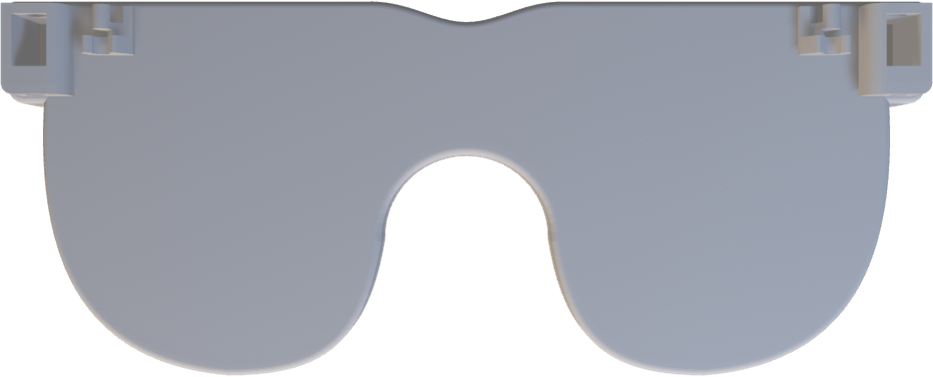
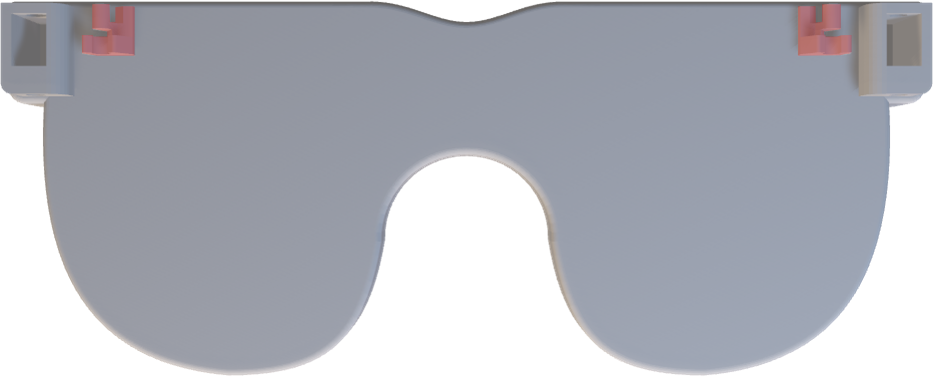
Update: Umsetzung + images-Folder

Changed region(s): [[0.8392, 0.0, 0.9325, 0.1459], [0.0622, 0.0, 0.1554, 0.1459]]

diff --git a/diplomarbeit/chapters/04_Umsetzung.tex b/diplomarbeit/chapters/04_Umsetzung.tex
@@ -545,7 +545,7 @@ Die nachfolgende Analyse schlüsselt die Code-Passagen und ihre technischen Funk
 Die Rahmenkonstruktion basiert auf einer in der zweidimensionalen Ebene definierten
 Grundform.
 
-\begin{figure}[htbp]
+\begin{figure}[H]
     \centering
     \includegraphics[width=0.5\textwidth]{media/images/Grundform-Skizze.png}
     \caption*{Grundform-Skizze}
@@ -562,7 +562,7 @@ Im rechten Bereich der Brille ist das Lademodul untergebracht. Unterhalb davon b
 
 Farbliche Kennzeichnung der Nicla Vision-Auflage (rot) und des Lademoduls (orange):
 
-\begin{figure}[htbp]
+\begin{figure}[H]
     \centering
     \includegraphics[width=0.45\textwidth]{media/images/Rahmen v2 - Nicla Vision-Stützen und Lademodul.png}
     \caption*{Rahmen v2: Innenraum}
@@ -572,7 +572,7 @@ Farbliche Kennzeichnung der Nicla Vision-Auflage (rot) und des Lademoduls (orang
 
 Um zu versichern, dass der Mikrocontroller fixiert ist, wird dieser von unten durch Halterungen abgestützt und von oben durch eine entsprechende Ausbuchtung in Position gehalten:
 
-\begin{figure}[htbp]
+\begin{figure}[H]
     \centering
     \includegraphics[width=0.25\textwidth]{media/images/Abdeckung v1 - Rückseite (links).png}
     \caption*{Abdeckung v1: Rückseite mit Nicla Vision-Ausbuchtung}
@@ -583,7 +583,7 @@ An den beiden Enden der Abdeckung, links und rechts, sind Vorsprünge mit Löche
 
 Die Position des Buttons wurde auf die Oberseite des Rahmens oberhalb des Mikrocontrollers gelegt, da diese Anordnung die Verkabelung erleichtert - im Gegensatz zu einer möglichen Platzierung am Bügelende hinter dem Ohr.
 
-\begin{figure}[htbp]
+\begin{figure}[H]
     \centering
     \includegraphics[width=0.5\textwidth]{media/images/Button-Öffnung.jpg}
     \caption*{Rahmen v2: Button-Öffnung}
@@ -615,7 +615,7 @@ Um ein komfortables Tragen der Brille im Nasenbereich zu ermöglichen, wurden di
     \item Verbesserung der Lademodul-Halterung (im ersten Test-Druck fielen die Maße noch zu schmal aus).
 \end{itemize}
 
-\begin{figure}[htbp]
+\begin{figure}[H]
     \centering
     \includegraphics[width=0.45\textwidth]{media/images/Abdeckungs-Stützen.png}
     \caption*{Rahmen v3: Abdeckungs-Stützen}
@@ -636,25 +636,25 @@ Die zuvor fehlenden Auflageflächen für den Knopf wurden nun unterhalb der Öff
 
 Im Vergleich zur Vorversion wurden die zuvor vorhandenen Öffnungen an den äußeren Enden links und rechts zur Verbindung der Abdeckung wieder geschlossen. Stattdessen kommt eine Haken-Einrastfunktion zum Einsatz, die eine sichere und ästhetische Verbindung zwischen Abdeckung und Rahmen gewährleisten soll.
 \newline
-\begin{figure}[htbp]
+\begin{figure}[H]
     \centering
     \includegraphics[width=0.2\textwidth]{media/images/Haken.png}
     \caption*{Haken v1: Angebracht an der Abdeckung}
     \label{fig:Haken v1}
 \end{figure}
 
-\begin{figure}[htbp]
+\begin{figure}[H]
     \centering
     \includegraphics[width=0.15\textwidth]{media/images/Haken-Gegenstück.png}
     \caption*{Haken-Gegenstück v1: Angebracht im Rahmen}
     \label{fig:Haken-Gegenstück v1}
 \end{figure}
 
-\textbf{Ergebnis:} Der 3D-Drucker konnte die sehr kleinen Details der Haken-Einrastfunktion nicht präzise umsetzen. Eine Vergrößerung des Hakens war jedoch nicht möglich, da diese Funktion in den Ecken des Rahmens untergebracht werden sollte, wo zugleich genügend Raum für die Kabelführung zur Verfügung stehen muss. Folglich war eine neue Lösung erforderlich.
+\textbf{Ergebnis:} Der 3D-Drucker konnte die sehr kleinen Details der Haken-Einrastfunktion nicht präzise umsetzen. Eine Vergrößerung war jedoch nicht möglich, da diese Funktion in den Ecken des Rahmens untergebracht werden sollte, wo zugleich genügend Raum für die Kabelführung zur Verfügung stehen muss. Folglich war eine neue Lösung erforderlich.
 
 \textbf{Scharnier-Optimierung:} Aufgrund unzureichender Funktionalität des zuvor verwendeten Scharniermechanismus wurde eine alternative Ausführung des Scharniers entwickelt:
 
-\begin{figure}[htbp]
+\begin{figure}[H]
     \centering
     \includegraphics[width=0.45\textwidth]{media/images/Rahmen v4 - Hinteransicht.png}
     \caption*{Rahmen v4: Hinteransicht}
@@ -669,7 +669,7 @@ Allgemein wurden zwar die Auflageflächen für den Knopf ergänzt, weiteren Prob
 
 Im Zuge des Neuentwurfs des Rahmen-Designs wurden mehrere zentrale Aspekte berücksichtigt, die in den vorherigen Versionen noch nicht ausreichend umgesetzt werden konnten. Ziel war es, eine ergonomische Form zu entwickeln, die sich an den Proportionen herkömmlicher Brillen orientiert und gleichzeitig für möglichst viele Gesichtsformen geeignet ist.
 
-\begin{figure}[htbp]
+\begin{figure}[H]
     \centering
     \includegraphics[width=0.5\textwidth]{media/images/Rahmen v5 - Vorderansicht.png}
     \caption*{Rahmen v5: Vorderansicht}
@@ -678,7 +678,7 @@ Im Zuge des Neuentwurfs des Rahmen-Designs wurden mehrere zentrale Aspekte berü
 
 Darüber hinaus sollte der bereits zuvor entwickelte Scharniermechanismus grundsätzlich beibehalten, jedoch größer dimensioniert werden, um den Einschränkungen durch die geringe Druckgenauigkeit des 3D-Drucks bei sehr kleinen Bauteilen entgegenzuwirken. Zusätzlich wurde vorgesehen, zwei Nasenbügel in das Modell zu integrieren, um die Auflage und den Tragekomfort zu verbessern.
 
-\begin{figure}[htbp]
+\begin{figure}[H]
     \centering
     \includegraphics[width=0.5\textwidth]{media/images/Rahmen v5 - Hinteransicht mit Nasenbügel und Scharniermechanismus.png}
     \caption*{Rahmen v5: Hinteransicht}
@@ -687,7 +687,7 @@ Darüber hinaus sollte der bereits zuvor entwickelte Scharniermechanismus grunds
 
 Ein weiterer Ansatz bestand darin, die bisherige Abdeckung zu überarbeiten und, ähnlich wie bei herkömmlichen Brillen, in zwei separate Bereiche für die Gläser aufzuteilen.
 
-\begin{figure}[htbp]
+\begin{figure}[H]
     \centering
     \includegraphics[width=0.4\textwidth]{media/images/Gläser-Abdeckung v1 - Vorderansicht.png}
     \caption*{Gläser-Abdeckung v1: Vorderansicht}
@@ -696,9 +696,9 @@ Ein weiterer Ansatz bestand darin, die bisherige Abdeckung zu überarbeiten und,
 
 Die Konstruktion des Rahmens basiert auf einer Skizze der Augenrand-Oberlinie. Diese wird nach oben extrudiert, wodurch eine dünne Grundfläche entsteht, aus der die eigentliche Brillenform herausgearbeitet wird.
 
-\begin{figure}[htbp]
+\begin{figure}[H]
     \centering
-    \includegraphics[width=0.5\textwidth]{media/images/Rahmen v5 - Arbeitsschritte der Konstruktion.png}
+    \includegraphics[width=0.75\textwidth]{media/images/Rahmen v5 - Arbeitsschritte der Konstruktion.png}
     \caption*{Rahmen v5: Arbeitsschritte der Konstruktion}
     \label{fig:Rahmen v5: Arbeitsschritte der Konstruktion}
 \end{figure}
@@ -717,6 +717,79 @@ Zur Gewährleistung der Funktionalität der Brille werden die freien Flächen de
 \item Integration des USB-C-Ports für das Lademodul
 \item Integration eines Kabeldurchlasses zwischen linker und rechter Brillenseite
 \end{itemize}
+
+\textbf{Gläser-Abdeckung v2:} In dieser Version wurden die Aussparungen für Kamera- und Distanzsensor miteinander verbunden - sowie abgerundet, für eine Verbesserung der optischen Gestaltung.
+
+\begin{figure}[H]
+    \centering
+    \includegraphics[width=0.4\textwidth]{media/images/Gläser-Abdeckung v2 - Vorderseite.png}
+    \caption*{Gläser-Abdeckung v2: Vorderseite}
+    \label{fig:Gläser-Abdeckung v2: Vorderseite}
+\end{figure}
+
+\subsubsection*{Rahmen v6}
+In der sechsten Version wurden neue, kompaktere Nasenbügel implementiert, die im Vergleich zur vorherigen Version weiter oben positioniert sind, wodurch der Tragekomfort erhöht wird. Beide Nasenbügel-Versionen wurden im Form-Modus von Fusion 360 modelliert, welcher die Erstellung organisch geformter Bauteile durch direktes Ziehen an Kanten, Flächen und Punkten ermöglicht.
+
+\begin{figure}[H]
+    \centering
+    \includegraphics[width=0.5\textwidth]{media/images/Nasenbügel-Vergleich.png}
+    \caption*{Nasenbügel-Vergleich}
+    \label{fig:Nasenbügel-Vergleich}
+\end{figure}
+
+Die Scharniere wurden an der Oberseite um eine glatte Auflage erweitert, welche den Mechanismus stabilisiert und somit während des 3D-Drucks zu einer verbesserten Druckqualität beiträgt.
+\par
+Zusätzlich wurde an den äußeren Enden des Rahmen-Innenraums eine Kabeldurchführung in die Bügel integriert. Diese ermöglicht die Verbindung der im Rahmen untergebrachten Elektronik mit den in den Bügeln platzierten Akkus.
+\par
+Um die Gläser-Abdeckung formschlüssiger in den Rahmen einzusetzen, wird deren Maßstab angepasst. Das linke Glas, das die Nicla Vision-Abdeckung trägt, lässt sich innerhalb von Fusion nur schwer dimensionieren, ohne die Größe der Aussparungen und Ausbuchtungen zu verändern. Daher erfolgt die Anpassung temporär im Open-Source-Grafikprogramm Blender, das eine präzisere Bearbeitung einzelner Punkte, Kanten und Flächen ermöglicht:
+
+\begin{figure}[H]
+    \centering
+    \includegraphics[width=0.5\textwidth]{media/images/Gläser-Abdeckung v3 - stl-File in Blender.png}
+    \caption*{Gläser-Abdeckung v3: stl-File in Blender}
+    \label{fig:Gläser-Abdeckung v3: stl-File in Blender}
+\end{figure}
+
+Zur Bearbeitung des 3D-Modells in Blender wurde dieses aus Fusion als STL-Datei exportiert. STL-Dateien wandeln 3D-Modelle in eine Liste aus Dreiecken um, wie in der Abbildung ersichtlich. Beim Import in Blender entstehen dadurch sehr viele Punkte, Kanten und Flächen, was die Komplexität des Modells erhöht. Dies kann zu einem Open-Mesh-Error führen, einem Fehler, der vor dem 3D-Druck im Slicer auftritt und dazu führen kann, dass das Modell nicht druckbar ist.
+
+\subsubsection*{Rahmen v7}
+Der in Abschnitt [// TODO] erläuterte Modellierfehler lässt sich durch die folgenden sechs Schritte korrigieren:
+
+\begin{figure}[H]
+    \centering
+    \includegraphics[width=0.5\textwidth]{media/images/Modellierfehler-Behebung.png}
+    \caption*{Modellierfehler-Behebung}
+    \label{fig:Modellierfehler-Behebung}
+\end{figure}
+
+\begin{enumerate}
+    \item Ausgangslage: Die Vorderseite des Nasenbereichs weist eine ungleichmäßige, verkantete Form auf und muss angepasst werden.
+    \item Löschen aller Flächen, die die problematische Vorderseite betreffen.
+    \item Auswahl der äußeren Kanten der ausgeschnittenen Fläche: Extrusion dieser Kanten entlang der y-Achse.
+    \item Abschneiden der überstehenden, extrudierten Fläche mittels Extrusion-Funktion von oben nach unten, um die gewünschte runde Form zu erzielen.
+    \item Erneute Auswahl der äußeren Kanten: Erstellung einer Fläche zwischen diesen Kanten.
+    \item Kombination der neu erstellten Fläche mit dem bestehenden Rahmen, wodurch der Volumenkörper wieder geschlossen wird und keine offenen Flächen verbleiben.
+\end{enumerate}
+
+Der dargestellte Prozess in der Abbildung verlief nicht vollständig linear. Er war geprägt von Einschränkungen durch Fusion 360, begrenzten Freiheiten bei der Behebung des Modellierfehlers sowie wiederkehrenden Fehlermeldungen während der Anpassungen.
+\par
+Bei genauerer Betrachtung der Brille zeigt sich noch eine feine Kante, die Fusion automatisch generiert hat. Für eine möglichst glatte und angenehme Ausführung der Brille, wird diese Kante noch abgerundet:
+
+\begin{figure}[H]
+    \centering
+    \includegraphics[width=0.5\textwidth]{media/images/Modellierfehler - letzter Schritt.png}
+    \caption*{Modellierfehler - finaler Korrekturschritt}
+    \label{fig:Modellierfehler - finaler Korrekturschritt}
+\end{figure}
+
+Das linke Abdeckungsglas liegt formschlüssig auf dem Nicla Board auf. Zur Verbesserung der Kabelführung sowie zur Erleichterung des Anschlusses der mitgelieferten Antenne wird die Halterung auf der Rückseite der Abdeckung geringfügig modifiziert.
+
+\begin{figure}[H]
+    \centering
+    \includegraphics[width=0.5\textwidth]{media/images/Abdeckung v5 - Rückseite.png}
+    \caption*{Abdeckung v5: Rückseite}
+    \label{fig:Abdeckung v5: Rückseite}
+\end{figure}
 
 \subsubsection{Bügel}
 \subsubsection*{Bügel v1 - 2}
@@ -739,15 +812,14 @@ Um im Bügel einen Lithium-Ionen-Akku unterbringen zu können, wurde die Vorders
     \label{fig:Bügel v1: Vorderansicht}
 \end{figure}
 
-Mit einem 3D-gedruckten Probe-Bauteil konnten folgende Probleme festgestellt werden: ($\rightarrow$ Herausforderung)
-{
-\itshape
+Mit einem 3D-gedruckten Probe-Bauteil konnten folgende Probleme festgestellt werden:
+  
 \begin{itemize}
     \item Der Platz im Gehäuse für die Akkus war nicht ausreichend (Akku-Maße: 56 mm x 34,5 mm x 10,3 mm). Während Höhe und Breite passend realisiert wurden, war der Bügel-Hohlraum in der Länge noch zu kurz.
     \item Der Bügel konnte noch nicht mit dem Rahmen verbunden werden, da kein Loch für die Scharnier-Verbindung vorhanden war.
     \item Durch die sehr geradlinige Form wirkt das Design klobig. Während die Geometrie im vorderen Bereich die notwendige Breite von 10,3 mm aufweist, sollte sie hinten wieder schmaler werden, um wie bei üblichen Brillen bequem über dem Ohr zu „sitzen“.
 \end{itemize}
-}
+
 Aufgrund dessen wurde die 1. Version noch einmal überarbeitet:
 
 \begin{figure}[H]
@@ -757,21 +829,19 @@ Aufgrund dessen wurde die 1. Version noch einmal überarbeitet:
     \label{fig:Bügel v2: Hinteransicht}
 \end{figure}
 
-Der zweite Entwurf beinhaltete folgende Optimierungen:
+Der zweite Entwurf beinhaltet folgende Optimierungen:
 \begin{itemize}
     \item Ausreichende Gehäuse-Länge für den Lithium-Ionen-Akku.
     \item Schmaleres Bügel-Ende 
 \end{itemize}
 
 Bestehen gebliebene Probleme:
-{
-\itshape
 \begin{itemize}
-    \item Das Bügel-Ende wies weiterhin eine unzureichende Breite auf. Durch unzureichende Erfahrung mit dem 3D-Drucker konnte nicht abgeschätzt werden, wie breit der hintere Teil des Bügels tatsächlich sein sollte.
-    \item Löcher für die Scharnier-Verbindung fehlen weiterhin.
+    \item Bügel-Ende weiterhin überdimensioniert
+    \item Scharnier-Mechanismus zwischen Rahmen und Bügel noch nicht implementiert
 \end{itemize}
 
-Zudem bestand weiterhin Unzufriedenheit mit dem in der Abbildung markierten Übergang:
+Zudem wies der in der Abbildung markierte Übergang noch Optimierungsbedarf auf:
 
 \begin{figure}[H]
     \centering
@@ -780,26 +850,10 @@ Zudem bestand weiterhin Unzufriedenheit mit dem in der Abbildung markierten Übe
     \label{fig:Bügel v2: Seitenansicht}
 \end{figure}
 
-Der Übergang dient rein ästhetischen Zwecken und weist dahinter lediglich einen ungenutzten Hohlraum auf. Dieser Bereich könnte jedoch für die Verbesserung des Tragekomforts genutzt werden. Die verbleibenden 35 mm zwischen Übergang und Bügel-Ende sind für die meisten Personen nicht ausreichend dimensioniert. Aus diesem Grund wurde beschlossen, das Bügelkonzept grundlegend zu überarbeiten und neu zu entwickeln.
-}
+Der Übergang dient rein ästhetischen Zwecken und weist dahinter lediglich einen ungenutzten Hohlraum auf. Dieser Bereich könnte für die Verbesserung des Tragekomforts genutzt werden. Die verbleibenden 35 mm zwischen Übergang und Bügel-Ende sind für die meisten Personen nicht ausreichend dimensioniert. Aus diesem Grund wurde beschlossen, das Bügelkonzept grundlegend zu überarbeiten und neu zu entwickeln $\rightarrow$ Bügel v3 - 4 // TODO
+
 \par
-\textbf{Akku-Aufbewahrung:} Zu Beginn wurde ein Lithium-Ionen-Akku mit einer Kapazität von 2000 mAh gewählt, um eine möglichst lange Betriebsdauer ohne erneutes Aufladen zu gewährleisten. Geplant war, diesen im Bügel unterzubringen. Da dies jedoch zu einer ungleichmäßigen Gewichtsverteilung geführt hätte, wurde entschieden, auf der gegenüberliegenden Seite ebenfalls einen Akku zu integrieren.
-
-Die Bügel sollten auch zuklappbar sein, weshalb eine Scharnierlösung erforderlich war:
-Das Grundprinzip des Umklapp-Mechanismus basiert darauf, dass die Bügel jeweils über Ausbuchtungen links und rechts außen am Rahmen geführt werden. Diese dienen sowohl als mechanische Führung als auch als stabile Auflagefläche für die spätere Befestigung.  
-
-Die Fixierung erfolgt durch eine von oben eingesetzte Schraube, die Bügel und Rahmen miteinander verbindet. Dadurch entsteht eine stabile, zugleich bewegliche Verbindung, die das Auf- und Zuklappen der Bügel ermöglichen soll.
-
-Ein wesentliches Konstruktionskriterium war zudem die Berücksichtigung der internen Kabelführung. Die Schrauben sind so positioniert, dass die Kabel ausreichend Spielraum besitzen, um nach innen zum Lademodul geführt zu werden - auch im zugeklappten Zustand der Brille.  
-
-Beachtet werden müssen zudem die Schrauben, welche die Abdeckung mit dem Rahmen verbinden. In vorherigen Abbildungen (\textit{siehe Abdeckung v1}) ist der Anschraubpunkt der Abdeckung sichtlich erkennbar (rechts außen). Über diesen wird durch den Rahmen eine Schraube geführt und von unten mit einer Mutter fixiert. Die Schraube soll so kurz wie möglich sein (provisorische Lösung).
-
-Probleme dieser Version: (Link zu Herausforderungen 4.2.1) \newline
-{
-\itshape
-Nach der Fertigstellung eines 3D-Drucks der Brille wurde ein Problem erkannt: Der Abstand zwischen Schraubenloch und Rahmen (\textit{siehe gestrichelter Bereich in Abbildung}) erwies sich als zu gering, um den erforderlichen Umklappradius der Bügel zu gewährleisten.
-\textit{Rahmen v2: Draufsicht mit Kennzeichnung in Rot}
-}
+\textbf{Akku-Aufbewahrung:} Für die Energieversorgung wird ein Lithium-Ionen-Akku mit einer Kapazität von 2000\,mAh eingesetzt, um eine möglichst lange Betriebsdauer ohne erneutes Aufladen zu gewährleisten. Die Integration des Akkus erfolgt im Brillenbügel. Zur Vermeidung einer ungleichmäßigen Gewichtsverteilung wird auf der gegenüberliegenden Seite ebenfalls ein Akku vorgesehen.
 
 \subsubsection*{Bügel v3 - 4}
 In der dritten Version des Bügels wurde der hintere Bereich, welcher auf dem Ohr aufliegt, gezielt ergonomisch überarbeitet. Zu diesem Zweck erhielt der Bügel eine nach innen gerichtete Einkerbung, um eine bessere Anpassung an die natürliche Form des Ohres zu ermöglichen. Dadurch soll sowohl der Sitz verbessert als auch der Tragekomfort im Vergleich zu den vorherigen Versionen erhöht werden. \newline
@@ -811,7 +865,10 @@ In der dritten Version des Bügels wurde der hintere Bereich, welcher auf dem Oh
     \label{fig:Bügel v3: Hinteransicht}
 \end{figure}
 
-Zwischen der dritten und vierten Version veränderte sich die Bügelform leicht, wobei der Fokus ausschließlich auf ästhetischen Aspekten lag, ohne die Funktionalität zu beeinträchtigen. Zusätzlich wurde der Scharniermechanismus in der Bügel v4 verworfen, um in einer späteren Version einen neuen Ansatz umzusetzen.
+Zwischen der dritten und vierten Version veränderte sich die Bügelform leicht, wobei der Fokus ausschließlich auf ästhetischen Aspekten lag, ohne die Funktionalität zu beeinträchtigen.
+
+\textbf{Scharnier-Mechanismus:}\newline
+Zur Umsetzung des in Abschnitt~\ref{sec:Scharnier-Mechanismus} beschriebenen Scharniermechanismus wurden an den Bügel-Enden der dritten Version entsprechende Aussparungen angelegt. Aufgrund unzureichender Funktionalität wurde der Scharniermechanismus in der vierten Version jedoch wieder verworfen, um in einer späteren Version einen überarbeiteten Ansatz zu realisieren.
 
 \subsubsection*{Bügel v5 - 7}
 In der fünften Version wurde das Gegenstück des (hier genannten // TODO) Scharniermechanismus integriert. In Version 6 vergrößerte sich das Scharnier, während Version 7 die Stabilität des Scharniers durch eine einheitliche Auflagefläche erhöhte. Beide Anpassungen zielten darauf ab, eine höhere Druckgenauigkeit zu erzielen.
@@ -819,8 +876,28 @@ In der fünften Version wurde das Gegenstück des (hier genannten // TODO) Schar
 \begin{figure}[H]
     \centering
     \includegraphics[width=0.45\textwidth]{media/images/Bügel v7 - Scharnier-Auflagefläche.png}
-    \caption*{Bügel v7: Scharnier-Auflagefläche}
+    \caption*{Bügel v7: Scharnier-Auflagefläche (Kennzeichnung in rot)}
     \label{fig:Bügel v7: Scharnier-Auflagefläche}
+\end{figure}
+
+\subsubsection*{Bügel v8 - 9}
+Aufgrund unzureichenden seitlichen Spielraums im Bereich der Schläfen wird die Vorderseite des Rahmens abgeschrägt. Diese Anpassung erhöht die seitliche Flexibilität der Brille nach außen und ermöglicht dadurch eine bessere Anpassung an unterschiedliche Kopfformen.
+
+\begin{figure}[H]
+    \centering
+    \includegraphics[width=0.5\textwidth]{media/images/Bügel v9 - Oberansicht.png}
+    \caption*{Bügel v9: Oberansicht}
+    \label{fig:Bügel v9: Oberansicht}
+\end{figure}
+
+Zusätzlich wird die Öffnung für den Akku von der Vorderseite auf die Oberseite des Rahmens verlagert und mit einem neuen Verschließmechanismus versehen. Dieser besteht aus zwei schmalen, links und rechts angeordneten Einkerbungen, in welche eine passgenaue Abdeckung eingeschoben werden kann. Dadurch wird ein sicherer Halt der Abdeckung gewährleistet, während gleichzeitig eine einfache Zugänglichkeit zum Akku erhalten bleibt. \newline
+Zudem wird an der Vorderseite eine kleine Öffnung integriert, die die Durchführung von Kabeln ermöglicht.
+
+\begin{figure}[H]
+    \centering
+    \includegraphics[width=0.5\textwidth]{media/images/Bügel v9 - Einkerbung.png}
+    \caption*{Bügel v9: Einkerbung}
+    \label{fig:Bügel v9: Einkerbung}
 \end{figure}
 
 \section{Herausforderungen in der Entwicklung}
